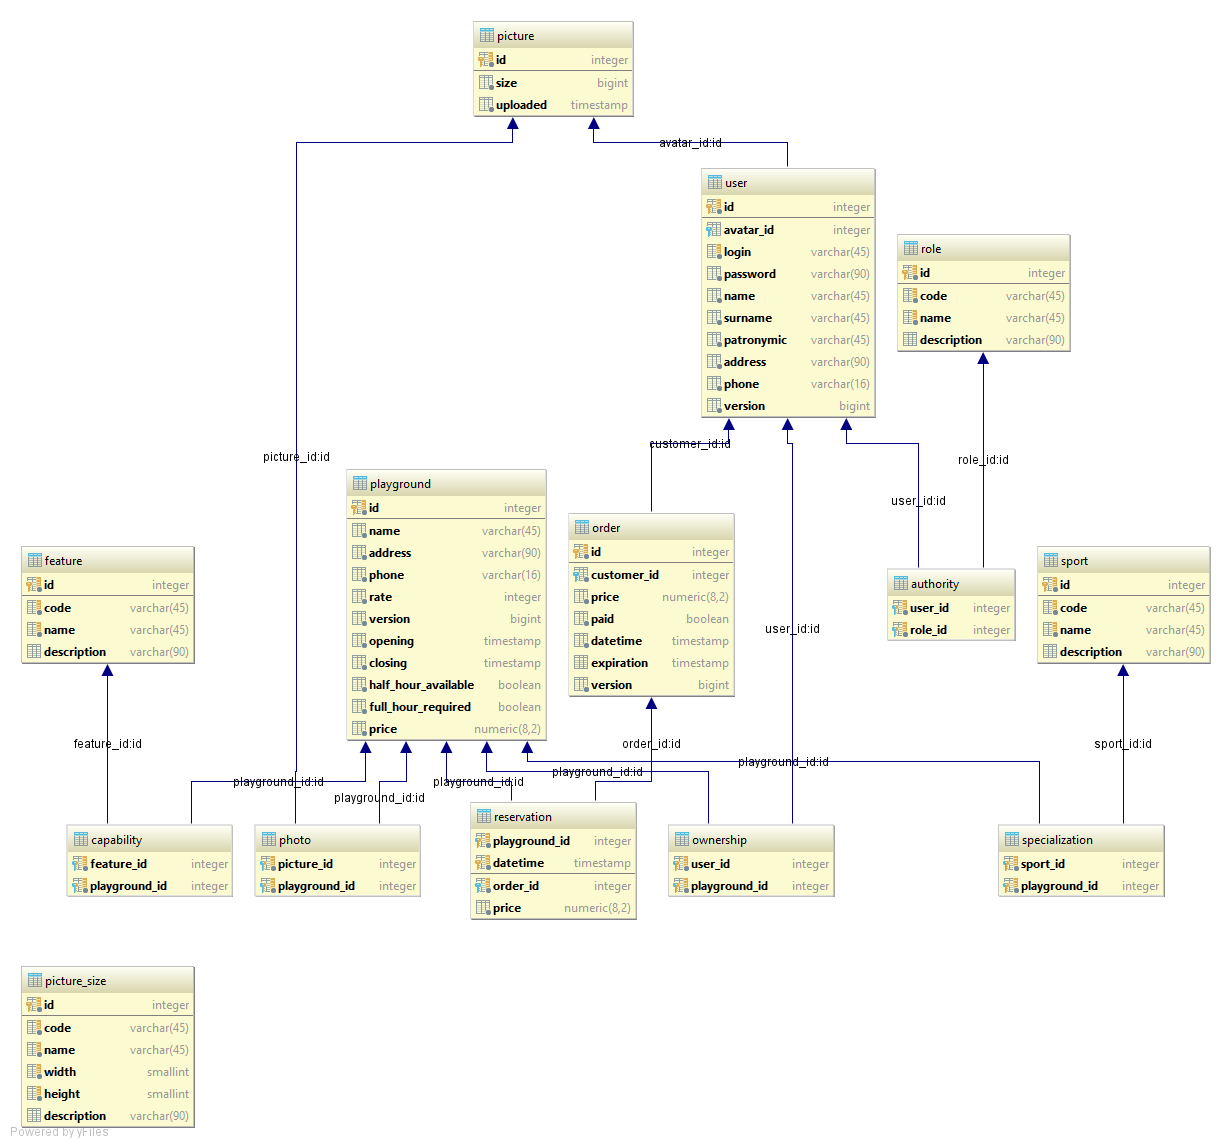
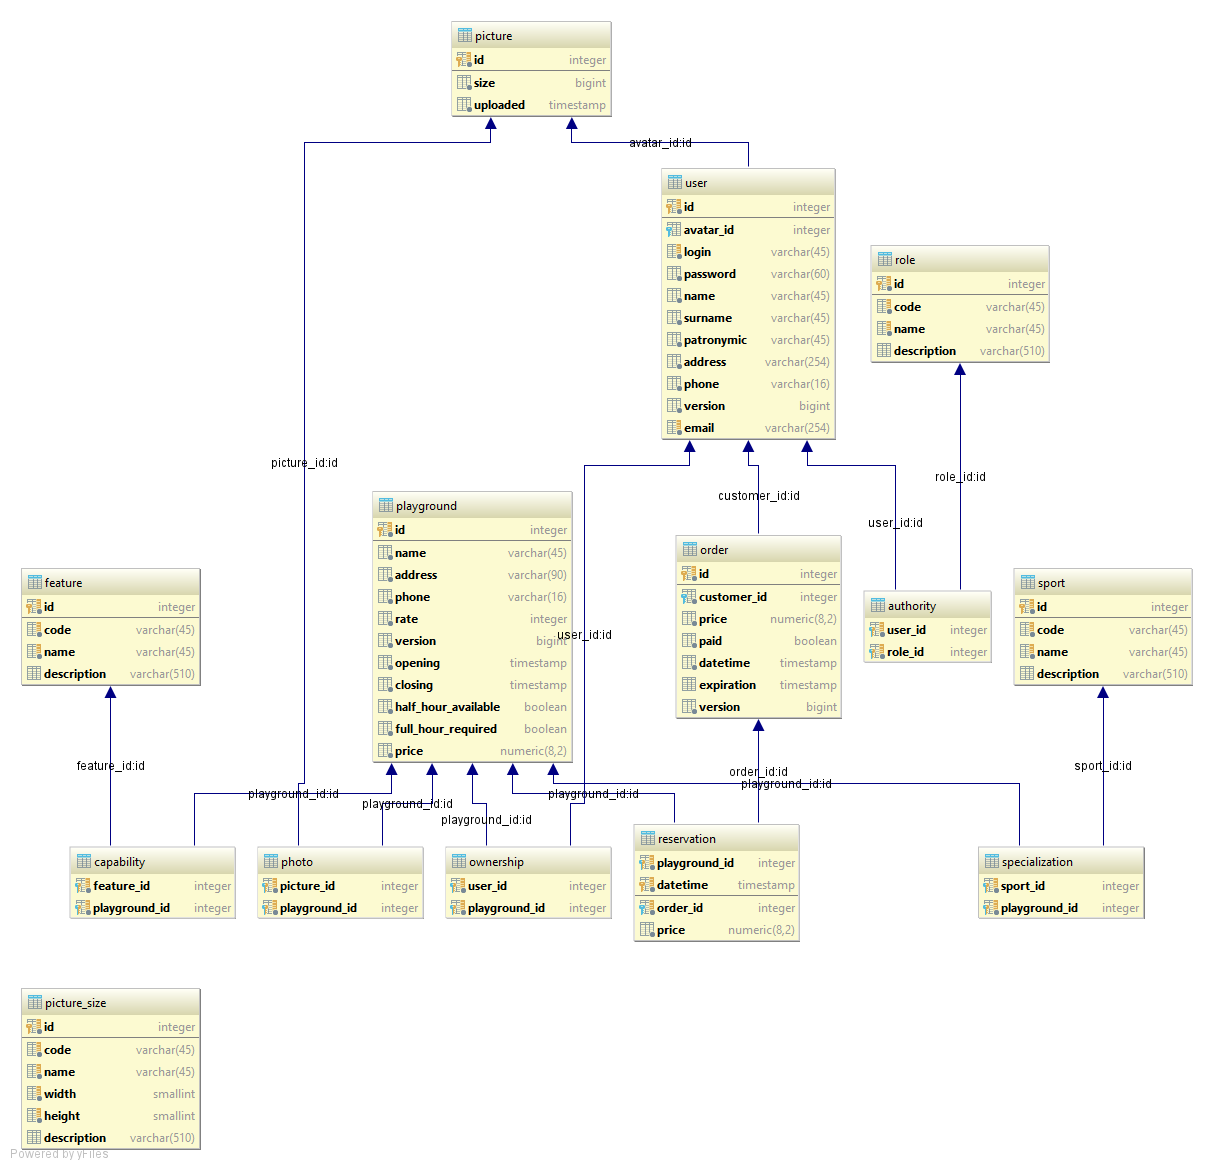
user email add

diff --git a/client/src/boot/auth/Registration.js b/client/src/boot/auth/Registration.js
@@ -18,6 +18,7 @@ class Registration extends Component {
             address: '',
             phone: '',
             login: '',
+            email: '',
             password: '',
             confirm: '',
             errorMessage: null,
@@ -28,7 +29,7 @@ class Registration extends Component {
     queryRegistration() {
         const self = this;
         const p = self.state.phone.trim().split(' ');
-        const validPhoneNumber = (p.length === 5) ? (p[0] + p[1] + p[2] + '-' + p[3] + '-' + p[4]) : ('');
+        const validPhoneNumber = (p.length === 5) ? (p[0] + p[1] + p[2] + '-' + p[3] + '-' + p[4]) : (p.join(' '));
         const url = getApiUrl('/auth/register');
         axios
             .post(url, {
@@ -38,6 +39,7 @@ class Registration extends Component {
                 address: self.state.address,
                 phone: validPhoneNumber,
                 login: self.state.login,
+                email: self.state.email,
                 password: self.state.password
             })
             .then(function (response) {
@@ -98,6 +100,10 @@ class Registration extends Component {
                         <InputField identifier={'login'} placeholder={'Логин'}
                                     onChange={this.handleInputChange.bind(this)}
                                     errorMessage={this.state.errorMessages.login}/>
+                        <InputField type={'email'}
+                                    identifier={'email'} placeholder={'Эл. Почта'}
+                                    onChange={this.handleInputChange.bind(this)}
+                                    errorMessage={this.state.errorMessages.email}/>
                         <PasswordInputField firstIdentifier={'password'} firstPlaceholder={'Пароль'}
                                             secondIdentifier={'confirm'} secondPlaceholder={'Подтвердите пароль'}
                                             onChange={this.handleInputChange.bind(this)}
@@ -125,7 +131,8 @@ function InputField(props) {
                 {props.placeholder}
             </label>
             <div className="col-sm-9">
-                <InputMask type="text" id={props.identifier} placeholder={props.placeholder}
+                <InputMask type={(props.type != null) ? props.type : 'text'}
+                           id={props.identifier} placeholder={props.placeholder}
                            className={(!error) ? 'form-control' : 'form-control is-invalid'}
                            maskChar={props.maskChar} mask={props.mask}
                            onChange={props.onChange}

diff --git a/src/main/java/ru/vldf/sportsportal/dto/sectional/common/UserDTO.java b/src/main/java/ru/vldf/sportsportal/dto/sectional/common/UserDTO.java
@@ -2,6 +2,7 @@ package ru.vldf.sportsportal.dto.sectional.common;
 
 import ru.vldf.sportsportal.dto.generic.AbstractIdentifiedDTO;
 import ru.vldf.sportsportal.dto.generic.AbstractVersionedDTO;
+import ru.vldf.sportsportal.dto.validation.annotations.Email;
 import ru.vldf.sportsportal.dto.validation.annotations.Login;
 import ru.vldf.sportsportal.dto.validation.annotations.Phone;
 
@@ -25,8 +26,13 @@ public class UserDTO extends AbstractVersionedDTO {
     private String login;
 
     @NotBlank(groups = FieldCheck.class)
-    @Size(min = 4, max = 90, groups = FieldCheck.class)
+    @Size(min = 4, max = 50, groups = FieldCheck.class)
     private String password;
+
+    @NotBlank(groups = FieldCheck.class)
+    @Size(min = 5, max = 254, groups = FieldCheck.class)
+    @Email(groups = FieldCheck.class)
+    private String email;
 
     @NotBlank(groups = FieldCheck.class)
     @Size(min = 1, max = 45, groups = FieldCheck.class)
@@ -41,7 +47,7 @@ public class UserDTO extends AbstractVersionedDTO {
     private String patronymic;
 
     @NotBlank(groups = FieldCheck.class)
-    @Size(min = 1, max = 90, groups = FieldCheck.class)
+    @Size(min = 5, max = 254, groups = FieldCheck.class)
     private String address;
 
     @NotBlank(groups = FieldCheck.class)
@@ -92,6 +98,15 @@ public class UserDTO extends AbstractVersionedDTO {
 
     public UserDTO setPassword(String password) {
         this.password = password;
+        return this;
+    }
+
+    public String getEmail() {
+        return email;
+    }
+
+    public UserDTO setEmail(String email) {
+        this.email = email;
         return this;
     }
 

diff --git a/src/main/java/ru/vldf/sportsportal/dto/validation/validators/EmailValidator.java b/src/main/java/ru/vldf/sportsportal/dto/validation/validators/EmailValidator.java
@@ -1,0 +1,15 @@
+package ru.vldf.sportsportal.dto.validation.validators;
+
+import ru.vldf.sportsportal.dto.validation.annotations.Email;
+
+import javax.validation.ConstraintValidator;
+import javax.validation.ConstraintValidatorContext;
+
+public class EmailValidator implements ConstraintValidator<Email, String> {
+
+    @Override
+    public boolean isValid(String s, ConstraintValidatorContext context) {
+        if (s == null) return true;
+        return s.matches("(?:[a-z0-9!#$%&'*+/=?^_`{|}~-]+(?:\\.[a-z0-9!#$%&'*+/=?^_`{|}~-]+)*|\"(?:[\\x01-\\x08\\x0b\\x0c\\x0e-\\x1f\\x21\\x23-\\x5b\\x5d-\\x7f]|\\\\[\\x01-\\x09\\x0b\\x0c\\x0e-\\x7f])*\")@(?:(?:[a-z0-9](?:[a-z0-9-]*[a-z0-9])?\\.)+[a-z0-9](?:[a-z0-9-]*[a-z0-9])?|\\[(?:(?:(2(5[0-5]|[0-4][0-9])|1[0-9][0-9]|[1-9]?[0-9]))\\.){3}(?:(2(5[0-5]|[0-4][0-9])|1[0-9][0-9]|[1-9]?[0-9])|[a-z0-9-]*[a-z0-9]:(?:[\\x01-\\x08\\x0b\\x0c\\x0e-\\x1f\\x21-\\x5a\\x53-\\x7f]|\\\\[\\x01-\\x09\\x0b\\x0c\\x0e-\\x7f])+)])");
+    }
+}

diff --git a/src/main/java/ru/vldf/sportsportal/dto/pagination/PageDTO.java b/src/main/java/ru/vldf/sportsportal/dto/pagination/PageDTO.java
@@ -11,7 +11,7 @@ public class PageDTO<T> implements DataTransferObject {
     private List<T> content;
     private Integer pageNumber;
     private Integer numberOfElements;
-    private Integer totalElements;
+    private Long totalElements;
     private Integer totalPages;
 
 
@@ -19,7 +19,7 @@ public class PageDTO<T> implements DataTransferObject {
         this.content = new ArrayList<>(page.getContent());
         this.pageNumber = page.getNumber();
         this.numberOfElements = page.getNumberOfElements();
-        this.totalElements = (int) page.getTotalElements();
+        this.totalElements = page.getTotalElements();
         this.totalPages = page.getTotalPages();
     }
 
@@ -36,7 +36,7 @@ public class PageDTO<T> implements DataTransferObject {
         return numberOfElements;
     }
 
-    public Integer getTotalElements() {
+    public Long getTotalElements() {
         return totalElements;
     }
 

diff --git a/src/main/java/ru/vldf/sportsportal/dto/pagination/filters/PlaygroundFilterDTO.java b/src/main/java/ru/vldf/sportsportal/dto/pagination/filters/PlaygroundFilterDTO.java
@@ -17,6 +17,21 @@ public class PlaygroundFilterDTO extends StringSearcherDTO {
     private Integer minRate;
 
 
+    @Override
+    public PlaygroundFilterDTO setPageSize(Integer pageSize) {
+        return (PlaygroundFilterDTO) super.setPageSize(pageSize);
+    }
+
+    @Override
+    public PlaygroundFilterDTO setPageNum(Integer pageNum) {
+        return (PlaygroundFilterDTO) super.setPageNum(pageNum);
+    }
+
+    @Override
+    public PlaygroundFilterDTO setSearchString(String searchString) {
+        return (PlaygroundFilterDTO) super.setSearchString(searchString);
+    }
+
     public Collection<String> getFeatureCodes() {
         return featureCodes;
     }

diff --git a/src/main/java/ru/vldf/sportsportal/dto/validation/annotations/Email.java b/src/main/java/ru/vldf/sportsportal/dto/validation/annotations/Email.java
@@ -1,0 +1,20 @@
+package ru.vldf.sportsportal.dto.validation.annotations;
+
+import ru.vldf.sportsportal.dto.validation.validators.EmailValidator;
+
+import javax.validation.Constraint;
+import javax.validation.Payload;
+import java.lang.annotation.*;
+
+@Documented
+@Constraint(validatedBy = EmailValidator.class)
+@Target({ElementType.METHOD, ElementType.FIELD, ElementType.TYPE_USE})
+@Retention(RetentionPolicy.RUNTIME)
+public @interface Email {
+
+    String message() default "{sportsportal.validation.constraints.Email.message}";
+
+    Class<?>[] groups() default {};
+
+    Class<? extends Payload>[] payload() default {};
+}

diff --git a/src/main/java/ru/vldf/sportsportal/domain/sectional/common/UserEntity.java b/src/main/java/ru/vldf/sportsportal/domain/sectional/common/UserEntity.java
@@ -20,6 +20,10 @@ public class UserEntity extends AbstractVersionedEntity {
     private String password;
 
     @Basic
+    @Column(name = "email", nullable = false)
+    private String email;
+
+    @Basic
     @Column(name = "name", nullable = false)
     private String name;
 
@@ -73,6 +77,14 @@ public class UserEntity extends AbstractVersionedEntity {
 
     public void setPassword(String password) {
         this.password = password;
+    }
+
+    public String getEmail() {
+        return email;
+    }
+
+    public void setEmail(String email) {
+        this.email = email;
     }
 
     public String getName() {

diff --git a/src/main/java/ru/vldf/sportsportal/dto/sectional/common/shortcut/UserShortDTO.java b/src/main/java/ru/vldf/sportsportal/dto/sectional/common/shortcut/UserShortDTO.java
@@ -9,6 +9,7 @@ public class UserShortDTO extends AbstractIdentifiedDTO {
 
     private Integer id;
     private String login;
+    private String email;
     private String name;
     private String surname;
     private String patronymic;
@@ -36,6 +37,15 @@ public class UserShortDTO extends AbstractIdentifiedDTO {
 
     public UserShortDTO setLogin(String login) {
         this.login = login;
+        return this;
+    }
+
+    public String getEmail() {
+        return email;
+    }
+
+    public UserShortDTO setEmail(String email) {
+        this.email = email;
         return this;
     }
 

diff --git a/src/main/java/ru/vldf/sportsportal/dto/sectional/common/specialized/UserLinkDTO.java b/src/main/java/ru/vldf/sportsportal/dto/sectional/common/specialized/UserLinkDTO.java
@@ -11,6 +11,7 @@ public class UserLinkDTO extends AbstractIdentifiedDTO {
     private Integer id;
 
     private String login;
+    private String email;
     private String name;
     private String surname;
     private String patronymic;
@@ -35,6 +36,15 @@ public class UserLinkDTO extends AbstractIdentifiedDTO {
 
     public UserLinkDTO setLogin(String login) {
         this.login = login;
+        return this;
+    }
+
+    public String getEmail() {
+        return email;
+    }
+
+    public UserLinkDTO setEmail(String email) {
+        this.email = email;
         return this;
     }
 

diff --git a/src/main/java/ru/vldf/sportsportal/dto/pagination/filters/generic/StringSearcherDTO.java b/src/main/java/ru/vldf/sportsportal/dto/pagination/filters/generic/StringSearcherDTO.java
@@ -5,6 +5,16 @@ public class StringSearcherDTO extends PageDividerDTO {
     private String searchString;
 
 
+    @Override
+    public StringSearcherDTO setPageSize(Integer pageSize) {
+        return (StringSearcherDTO) super.setPageSize(pageSize);
+    }
+
+    @Override
+    public StringSearcherDTO setPageNum(Integer pageNum) {
+        return (StringSearcherDTO) super.setPageNum(pageNum);
+    }
+
     public String getSearchString() {
         return searchString;
     }
